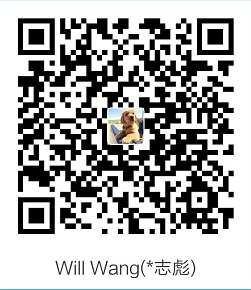
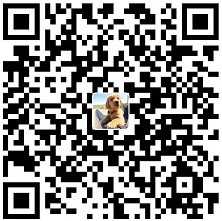
打赏

diff --git a/_layouts/post.html b/_layouts/post.html
@@ -114,7 +114,7 @@ layout: default
                 qrImg: 'https://github.com/flyingwzb/flyingwzb.github.io/blob/master/img/willwang/Alipay.jpg?raw=true'
             }, {
                 type: 'wechat',
-                qrImg: 'https://github.com/flyingwzb/flyingwzb.github.io/blob/master/img/willwang/wxpay.png?raw=true'
+                qrImg: 'https://github.com/flyingwzb/flyingwzb.github.io/blob/master/img/willwang/wxpay.jpg?raw=true'
             }
         ]
     }).init()
